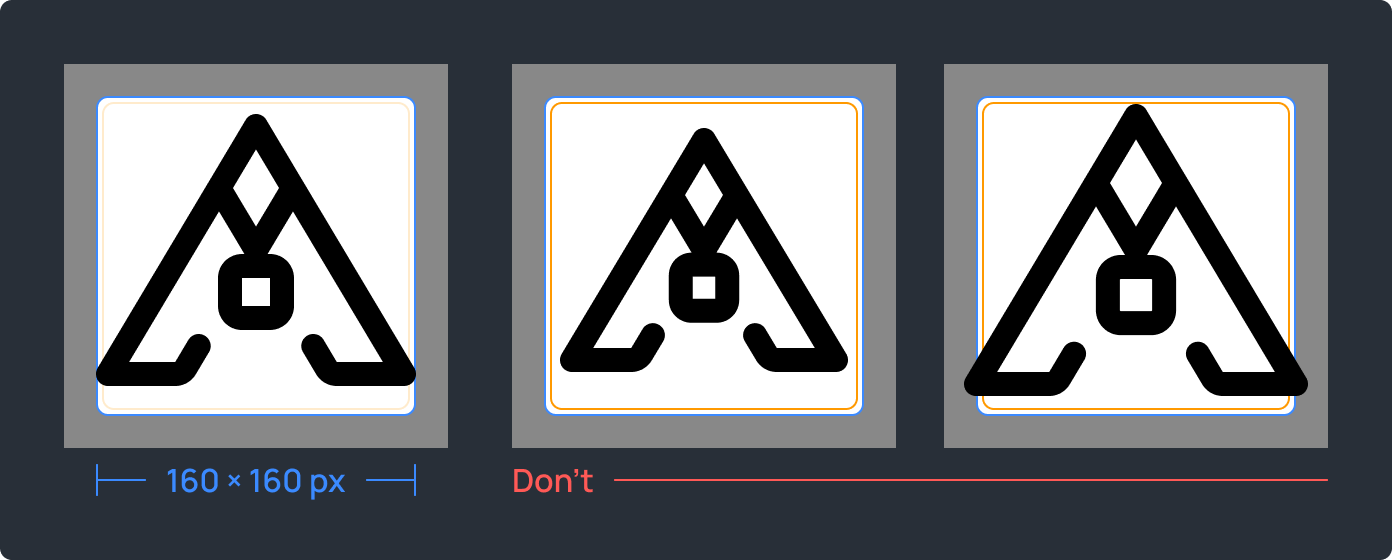
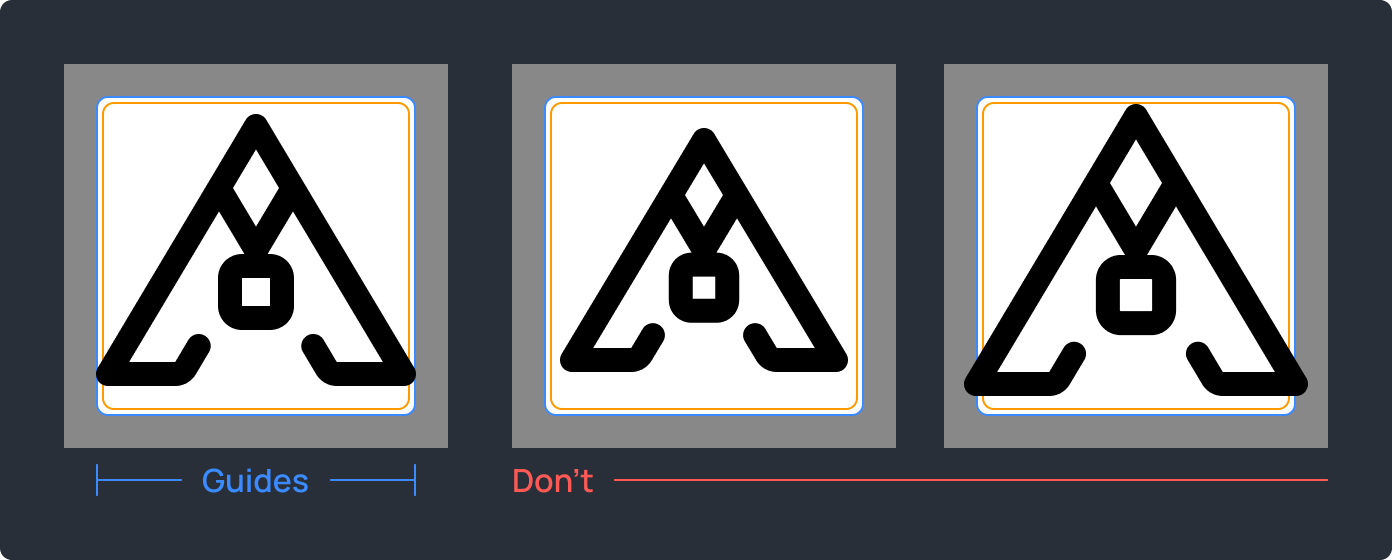
Lawnicons design guidelines 2.6 (#3309)

Changed region(s): [[0.0618, 0.1821, 0.3089, 0.2125], [0.1236, 0.8196, 0.2471, 0.8804], [0.0927, 0.7286, 0.278, 0.7589]]

diff --git a/CONTRIBUTING.md b/CONTRIBUTING.md
@@ -40,6 +40,8 @@ The contributors who laid the foundations: [GrabsterTV](https://github.com/Grabs
 > The design guidelines are also available in Figma, you can practice there.  
 > [View in Figma](https://www.figma.com/community/file/1544976260626797886)
 
+[Common issues](https://github.com/LawnchairLauncher/lawnicons/blob/develop/docs/images/common-issues-to-fix.png)
+
 ### Approach
 
 The Lawnicons style is built on strong fundamentals and a commitment to quality. To minimize the need for rework, please read these guidelines carefully. Our main goal is to create high-quality icons that clearly represent their respective apps. To achieve this goal, you may sometimes need to redesign an icon from scratch.
@@ -53,11 +55,37 @@ Tips
 
 [Merged PRs](https://github.com/LawnchairLauncher/lawnicons/pulls?q=is%3Apr+is%3Amerged+label%3Aicons)
 
-### Best way to learn the design guidelines
+### Naming
 
-Open your icon image in Figma and apply the guidelines point by point. For mindfulness, focus on the common issues.  
+**TL;DR**
+```
+_2048.svg | 2048
+lawnicons.svg | Lawnicons
+habitacao_caixa.svg | Habitação Caixa
+beijing_card.svg | 北京一卡通 ~~ Beijing Card
+a_and_w.svg | A&amp;W
+```
 
-[Common issues](https://github.com/LawnchairLauncher/lawnicons/blob/develop/docs/images/common-issues-to-fix.png)
+**App name**  
+
+The main app name should be in its main language. It can be found in app stores or primary sources.
+
+Apps with non-English names require an additional name based on the English alphabet. At best it will be a localized official app name. If an app name is mostly made up of letters from the English alphabet, it doesn't need an additional one.
+
+Tips
+- Add localized names if available.
+- Transliterate non-English names when there are no localized ones.
+- Separate app names using `~~`. First, the main app name, then the additional one.
+- Delete things that aren't part of an app name.
+- Use the HTML character references for special symbols: for instance, `&amp;` instead of "&".
+
+**Icon name (drawable)**  
+
+Repeat the app name. Use `a–z`, `0–9`, and `_` for spaces. Insert `_` before a digit at the beginning of an icon name.
+
+Tips
+- When multiple apps are linked to the same icon, choose the most popular app name for it.
+- Replace non-English letters with English letters.
 
 ### Fundamentals
 
@@ -74,17 +102,25 @@ Open your icon image in Figma and apply the guidelines point by point. For mindf
 
 <img src="docs/images/fundamentals-2-abstract-icons.png" alt="2 Abstract icons" height="200" />
 
-`160 × 160 px`. The long side of an abstract icon should be `160 px`, but the other side could be smaller. In the case of curved boundaries, the margin of error is `<0.1 px`.  
+Determine before you start. The exact values are determined by the stroke's position, weight, and the graphic editor used. For a `12 px` center stroke in Figma, the icon content area is `148 × 148 px`.
 
-Note: Stroke weight and position affect icon size in Figma.  
+Tips
+- Follow the blue guides. 
+- Use existing icons as an example.
+- Aim for pixel-perfect.
+- The margin of error is `<0.1 px`.
 
 #### 3 Square icons
 
 <img src="docs/images/fundamentals-3-square-icons.png" alt="3 Square icons" height="200" />
 
-`154 × 154 px`. These are icons with `50%` or more of the edges running along the square.  
+Determine before you start. These are icons with `50%` or more of the edges running along the square. The exact values are determined by the stroke's position, weight, and the graphic editor used. For a `12 px` center stroke in Figma, the square icon content area is `142 × 142 px`.
 
-Note: Stroke weight and position affect icon size in Figma.  
+Tips
+- Follow the golden guides. 
+- Use existing icons as an example.
+- Aim for pixel-perfect.
+- The margin of error is `<0.1 px`.
 
 #### 4 Color
 
@@ -151,7 +187,8 @@ Tips
 
 <img src="docs/images/quality-4-excessive-density.png" alt="4 Excessive density" height="200" />
 
-Keep at least `8 px` between lines.
+Keep at least `8 px` between lines, using an `8 × 8 px` rectangle to verify the spacing.  
+It’s better to make the distance a little more.
 
 Tips
 - Move lines further apart.
@@ -206,33 +243,6 @@ Tips
 - The default location for the badge is the lower right corner, but a lot depends on the icon shape.
 - Avoid shifting icons for the sake of the badge.
 - Create an issue if there aren’t enough version badges.
-
-### Naming
-
-Start with examples, maybe there is a suitable one for you.  
-
-[Thousands of examples](app/assets/appfilter.xml)
-
-**App name**  
-
-The main app name should be in its main language. It can be found in app stores or primary sources.
-
-Apps with non-English names require an additional name based on the English alphabet. At best it will be a localized official app name. If an app name is mostly made up of letters from the English alphabet, it doesn't need an additional one.
-
-Tips
-- Add localized names if available.
-- Transliterate non-English names when there are no localized ones.
-- Separate app names using `~~`. First, the main app name, then the additional one.
-- Delete things that aren't part of an app name.
-- Use the HTML character references for special symbols: for instance, `&amp;` instead of "&".
-
-**Icon name (drawable)**  
-
-Repeat the app name. Use `a–z`, `0–9`, and `_` for spaces. Insert `_` before a digit at the beginning of an icon name.
-
-Tips
-- When multiple apps are linked to the same icon, choose the most popular app name for it.
-- Replace non-English letters with English letters.
 
 ## Icon contribution tools
 
